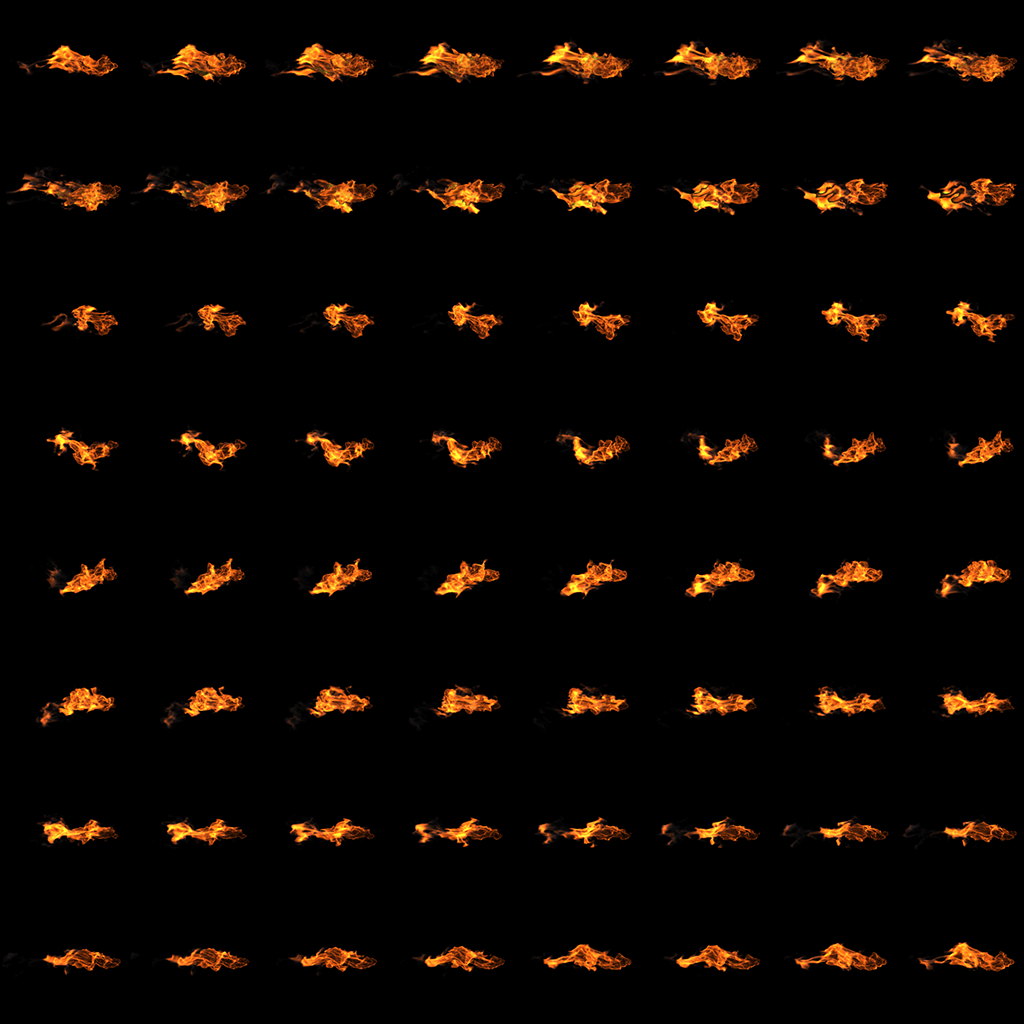
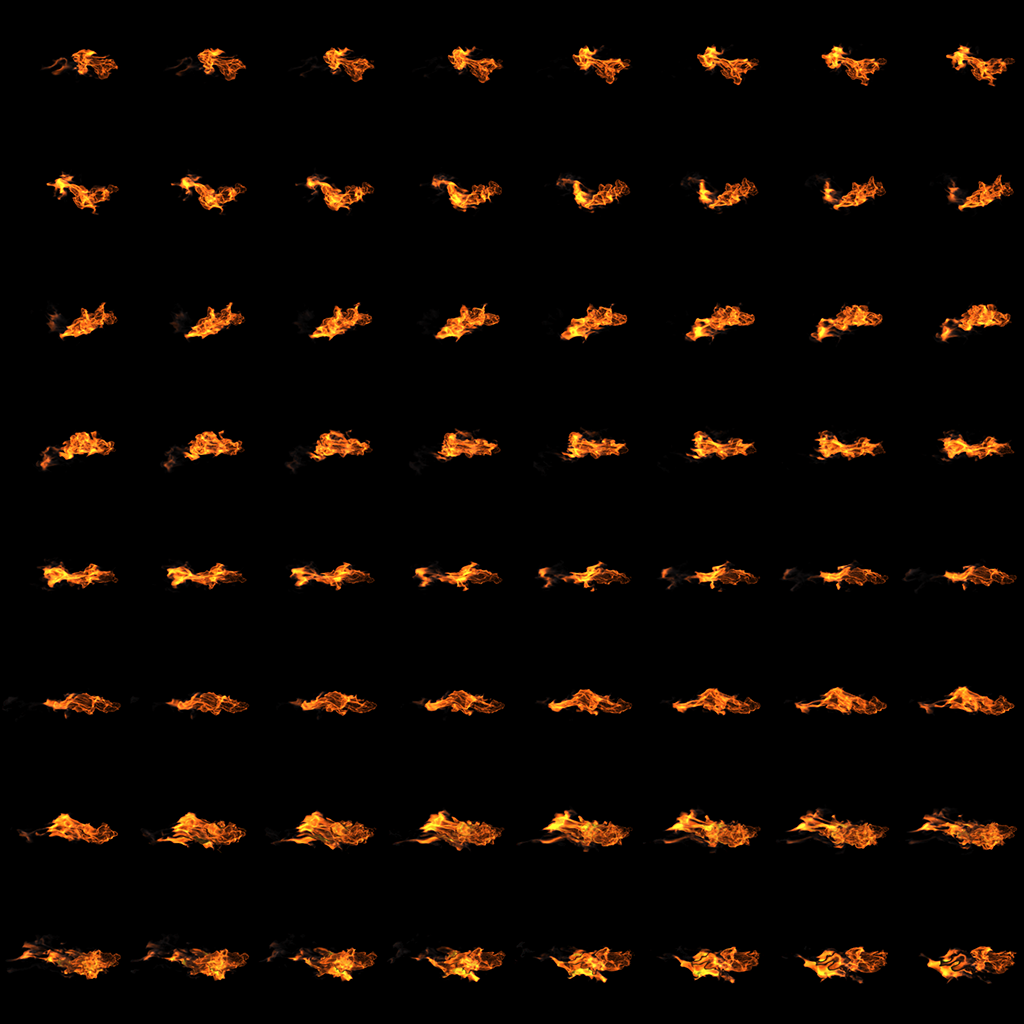
Updated images.

diff --git a/js/ParticleSystemPresets.js b/js/ParticleSystemPresets.js
@@ -84,7 +84,7 @@ ParticleSystemPresets =
 		atlasFrameSet: new ParticleSystem.FrameSet( [0, 2], [0, 63] ),
 		sizeFrameSet : new ParticleSystem.FrameSet( [ 0, 2], [ new THREE.Vector3( 70, 70 ), new THREE.Vector3( 70, 70 ) ] ),
 		
-		alphaFrameSet : new ParticleSystem.FrameSet( [0, 0.5, 1.5, 1.9, 2], [0, 1, 1, 0, 0] ),
+		alphaFrameSet : new ParticleSystem.FrameSet( [0, 2], [1, 1] ),
 		colorFrameSet : new ParticleSystem.FrameSet( [0, 2], [ new THREE.Vector3(1, 1, 1), new THREE.Vector3(1, 1, 1) ] ),
 		blendStyle : THREE.AdditiveBlending,  
 		
